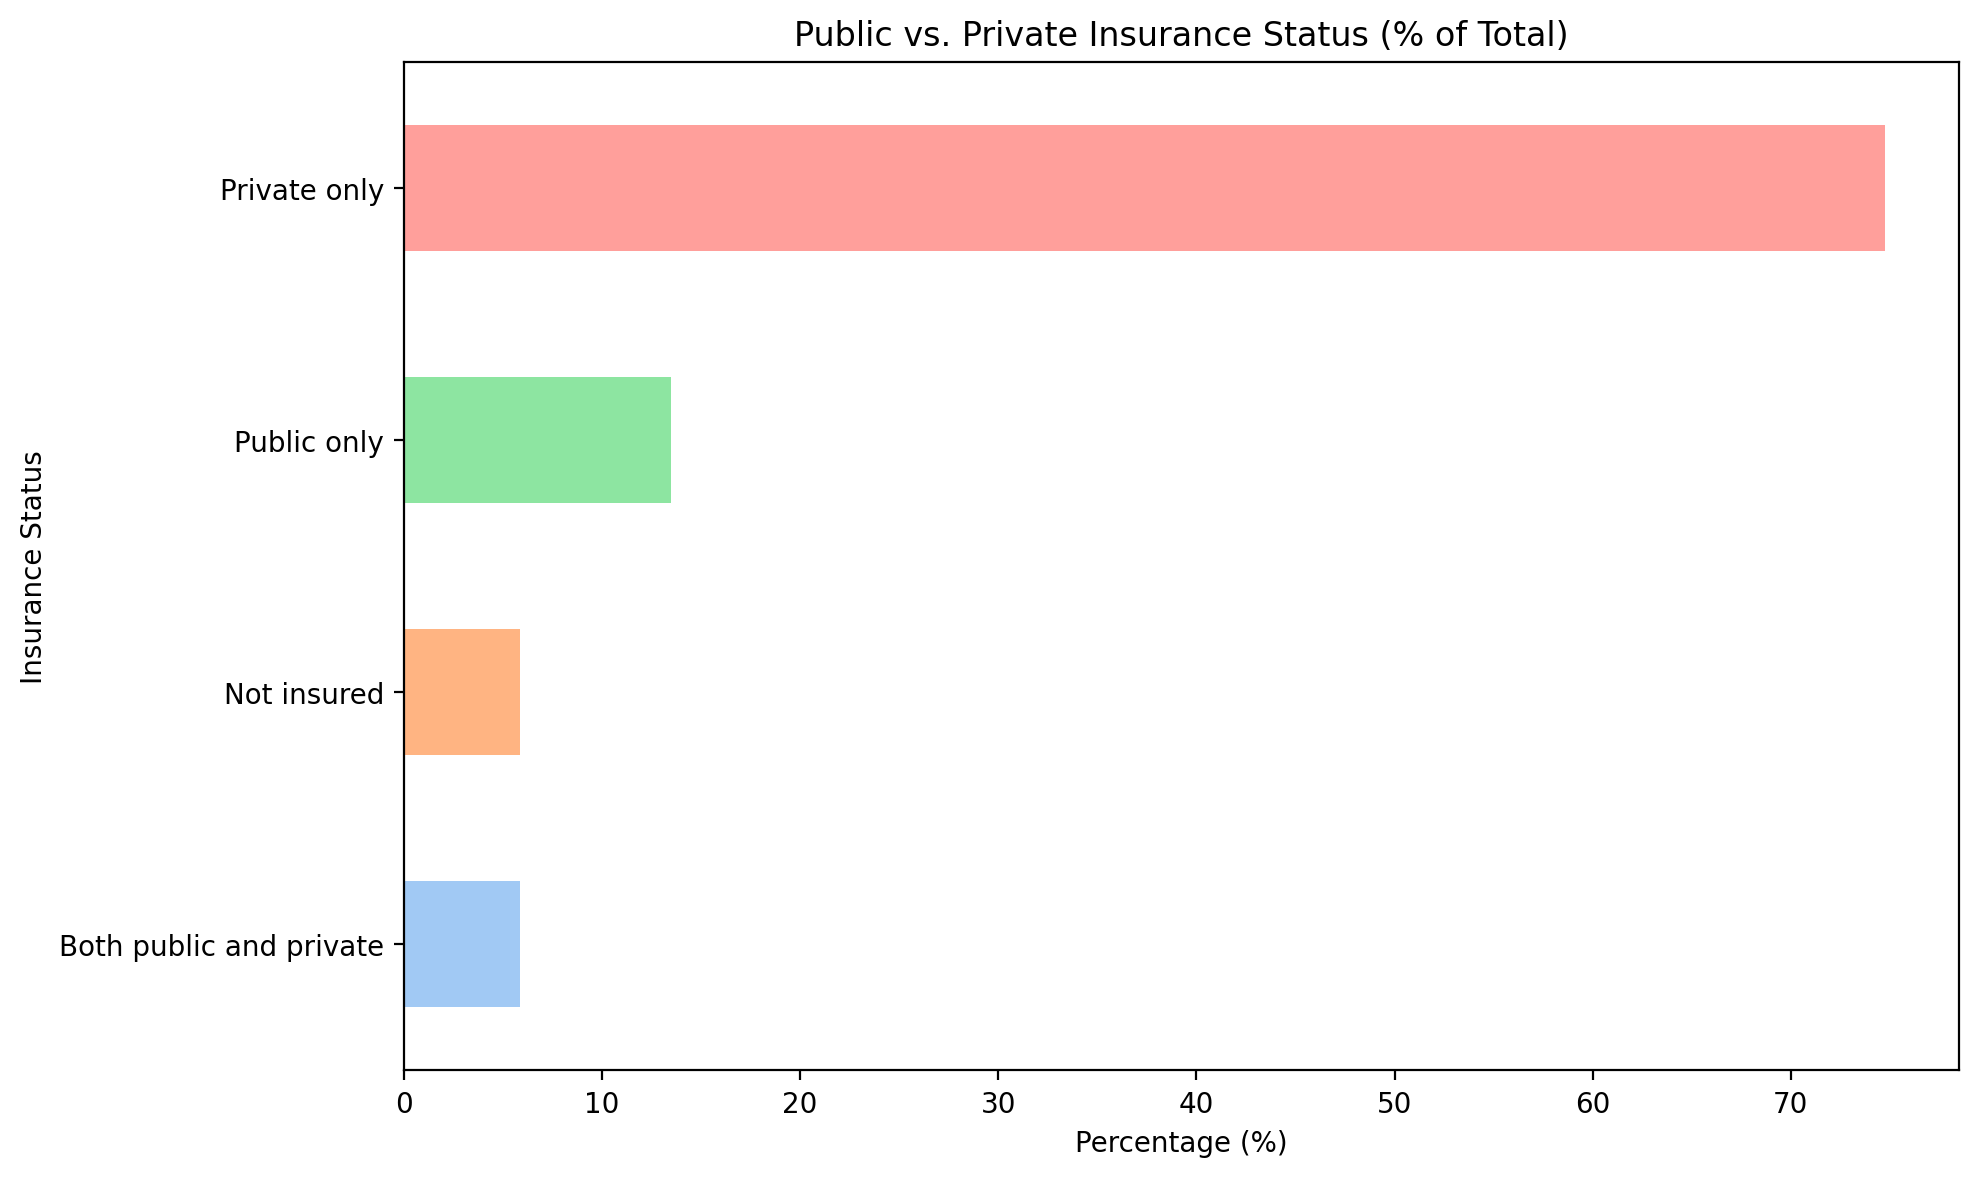
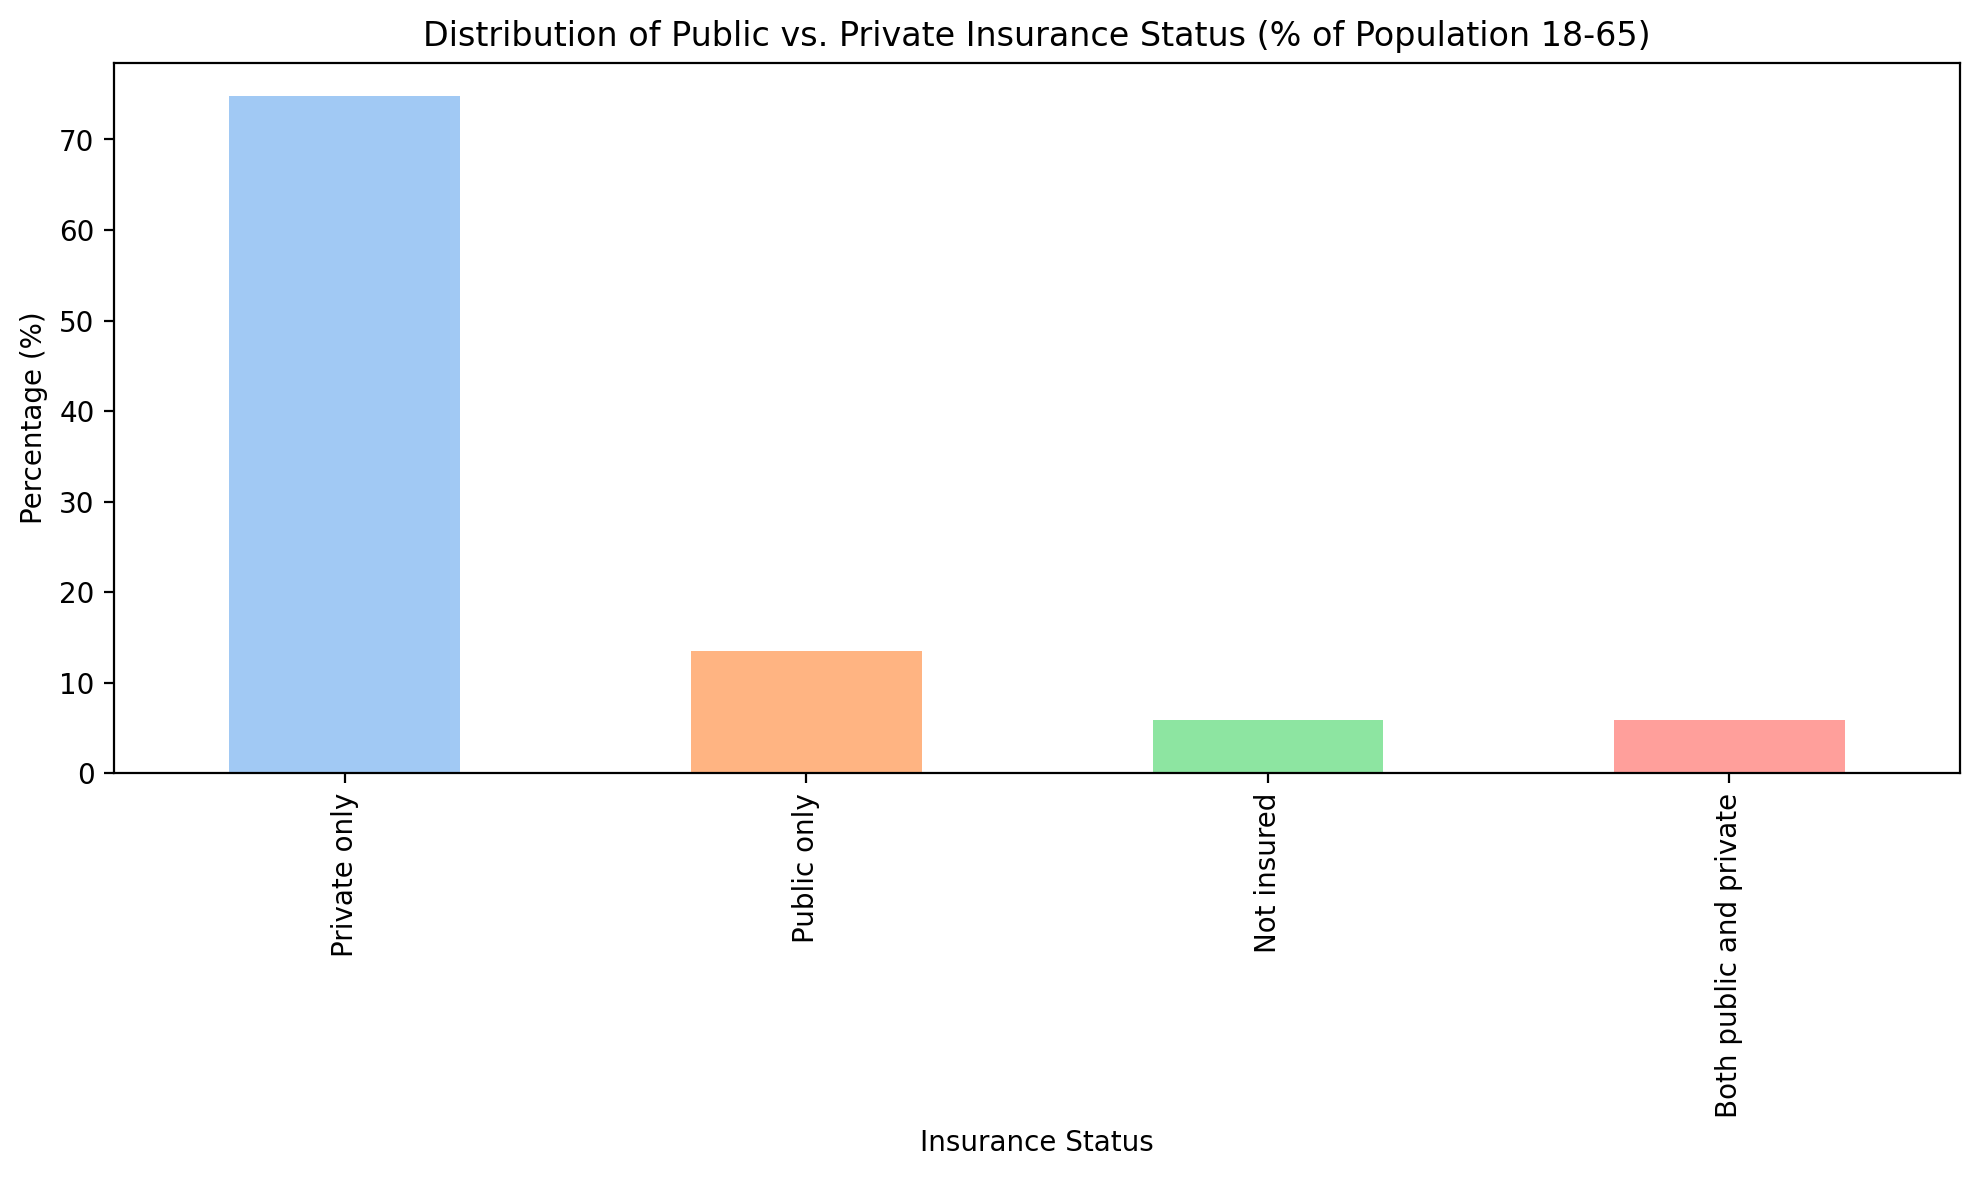
additions to the data understanding charts

diff --git a/01 data_understanding/data_understanding.py b/01 data_understanding/data_understanding.py
@@ -62,7 +62,54 @@ with open("01 data_understanding/output/dataset_overview.txt", "w") as f:
             f.write(f"\n{col}: {n_unique} unique values\n")
             f.write(df[col].value_counts().head(10).to_string())
 
-# Healthcare columns and their descriptive names
+# --- Descriptive Labels for Categorical Variables ---
+gender_labels = {1: 'Male', 2: 'Female'}
+race_labels = {
+    1: 'White',
+    2: 'Black',
+    3: 'AI/AN',
+    4: 'Chinese',
+    5: 'Japanese',
+    6: 'Asian/NH/PI',
+    7: 'Other',
+    8: 'Two+ races'
+}
+
+# Apply labels if columns exist
+if 'SEX' in df.columns:
+    df['SEX_label'] = df['SEX'].map(gender_labels)
+if 'RAC1P' in df.columns:
+    df['RAC1P_label'] = df['RAC1P'].map(race_labels)
+
+# --- Demographics Breakdown (Age, Gender, Race) ---
+fig, axes = plt.subplots(1, 3, figsize=(20, 6))
+
+# Age Distribution
+sns.histplot(df['AGEP'], bins=20, ax=axes[0], kde=True, color='skyblue')
+axes[0].set_title('Distribution of Age (18-65)')
+axes[0].set_xlabel('Age')
+axes[0].set_ylabel('Count')
+
+# Gender Distribution
+if 'SEX_label' in df.columns:
+    sns.countplot(x='SEX_label', data=df, ax=axes[1], palette='pastel')
+    axes[1].set_title('Distribution of Gender')
+    axes[1].set_xlabel('Gender')
+    axes[1].set_ylabel('Count')
+
+# Race Distribution
+if 'RAC1P_label' in df.columns:
+    sns.countplot(x='RAC1P_label', data=df, ax=axes[2], palette='Set2', order=race_labels.values())
+    axes[2].set_title('Distribution of Race')
+    axes[2].set_xlabel('Race')
+    axes[2].set_ylabel('Count')
+    axes[2].tick_params(axis='x', rotation=45, labelsize=9)
+
+plt.tight_layout()
+plt.savefig("01 data_understanding/output/da_demographics_breakdown.png", dpi=200, bbox_inches='tight')
+plt.close()
+
+# --- Healthcare Analysis ---
 hins_cols = ['HINS1', 'HINS2', 'HINS3', 'HINS4', 'HINS5', 'HINS6', 'HINS7']
 hins_descriptions = {
     'HINS1': 'Employer-based',
@@ -74,7 +121,6 @@ hins_descriptions = {
     'HINS7': 'No coverage'
 }
 
-# --- Combinations of HINS1-HINS7 ---
 def get_combination(row):
     selected = [hins_descriptions[col] for col in hins_cols if row[col] == 1]
     return ', '.join(selected) if selected else 'No coverage at all'
@@ -84,17 +130,17 @@ combination_counts = df['hins_combination'].value_counts()
 combination_percentages = (combination_counts / len(df)) * 100
 top_10_combinations = combination_percentages.nlargest(10)
 
-# Plot top 10 HINS combinations
+# Top 10 HINS combinations as column chart
 plt.figure(figsize=(14, 8))
-top_10_combinations.plot(kind='barh', color=sns.color_palette('husl', len(top_10_combinations)))
-plt.title('Top 10 Healthcare Coverage Combinations (% of Total)')
-plt.xlabel('Percentage (%)')
-plt.ylabel('Healthcare Coverage Combination')
+top_10_combinations.plot(kind='bar', color=sns.color_palette('husl', len(top_10_combinations)))
+plt.title('Top 10 Healthcare Coverage Combinations (% of Population 18-65)')
+plt.xlabel('Healthcare Coverage Combination')
+plt.ylabel('Percentage (%)')
+plt.xticks(rotation=45, ha='right')
 plt.tight_layout()
 plt.savefig("01 data_understanding/output/da_top10_hins_combinations.png", dpi=200, bbox_inches='tight')
 plt.close()
 
-# --- Public/Private/Both/None Insurance Status ---
 def get_insurance_status(row):
     public = any(row[['HINS3', 'HINS4', 'HINS5', 'HINS6']] == 1)
     private = any(row[['HINS1', 'HINS2']] == 1)
@@ -108,23 +154,42 @@ def get_insurance_status(row):
         return 'Not insured'
 
 df['insurance_status'] = df.apply(get_insurance_status, axis=1)
-status_percentages = (df['insurance_status'].value_counts(normalize=True) * 100).sort_values()
+status_percentages = (df['insurance_status'].value_counts(normalize=True) * 100).sort_values(ascending=False)
 
-# Plot insurance status distribution
+# Insurance status as column chart
 plt.figure(figsize=(10, 6))
-status_percentages.plot(kind='barh', color=sns.color_palette('pastel', 4))
-plt.title('Public vs. Private Insurance Status (% of Total)')
-plt.xlabel('Percentage (%)')
-plt.ylabel('Insurance Status')
+status_percentages.plot(kind='bar', color=sns.color_palette('pastel', 4))
+plt.title('Distribution of Public vs. Private Insurance Status (% of Population 18-65)')
+plt.xlabel('Insurance Status')
+plt.ylabel('Percentage (%)')
 plt.tight_layout()
 plt.savefig("01 data_understanding/output/da_insurance_status.png", dpi=200, bbox_inches='tight')
 plt.close()
 
+bins = [18, 23, 28, 33, 38, 43, 48, 53, 58, 63, 66]
+labels = ['18-22', '23-27', '28-32', '33-37', '38-42', '43-47', '48-52', '53-57', '58-62', '63-65']
+df['age_group'] = pd.cut(df['AGEP'], bins=bins, labels=labels, right=False)
+
+medicaid_by_age = df.groupby('age_group')['HINS4'].apply(lambda x: (x == 1).mean() * 100)
+
+plt.figure(figsize=(14, 7))
+medicaid_by_age.plot(kind='bar', color='teal')
+plt.title('Medicaid Coverage Rate by Age Group (% of Age Group)')
+plt.xlabel('Age Group')
+plt.ylabel('Medicaid Coverage Rate (%)')
+plt.ylim(0, 100)
+plt.xticks(rotation=45)
+plt.tight_layout()
+plt.savefig("01 data_understanding/output/da_medicaid_by_age.png", dpi=200, bbox_inches='tight')
+plt.close()
+
 # Print and save results
 with open("01 data_understanding/output/healthcare_analysis.txt", "w") as f:
-    f.write("Top 10 Healthcare Coverage Combinations (% of Total):\n")
+    f.write("Top 10 Healthcare Coverage Combinations (% of Population 18-65):\n")
     f.write(top_10_combinations.to_string())
-    f.write("\n\nPublic vs. Private Insurance Status (% of Total):\n")
+    f.write("\n\nDistribution of Public vs. Private Insurance Status (% of Population 18-65):\n")
     f.write(status_percentages.to_string())
+    f.write("\n\nMedicaid Coverage Rate by Age Group (% of Age Group):\n")
+    f.write(medicaid_by_age.to_string())
 
 print("Analysis complete. Outputs saved to '01 data_understanding/output/'.")
